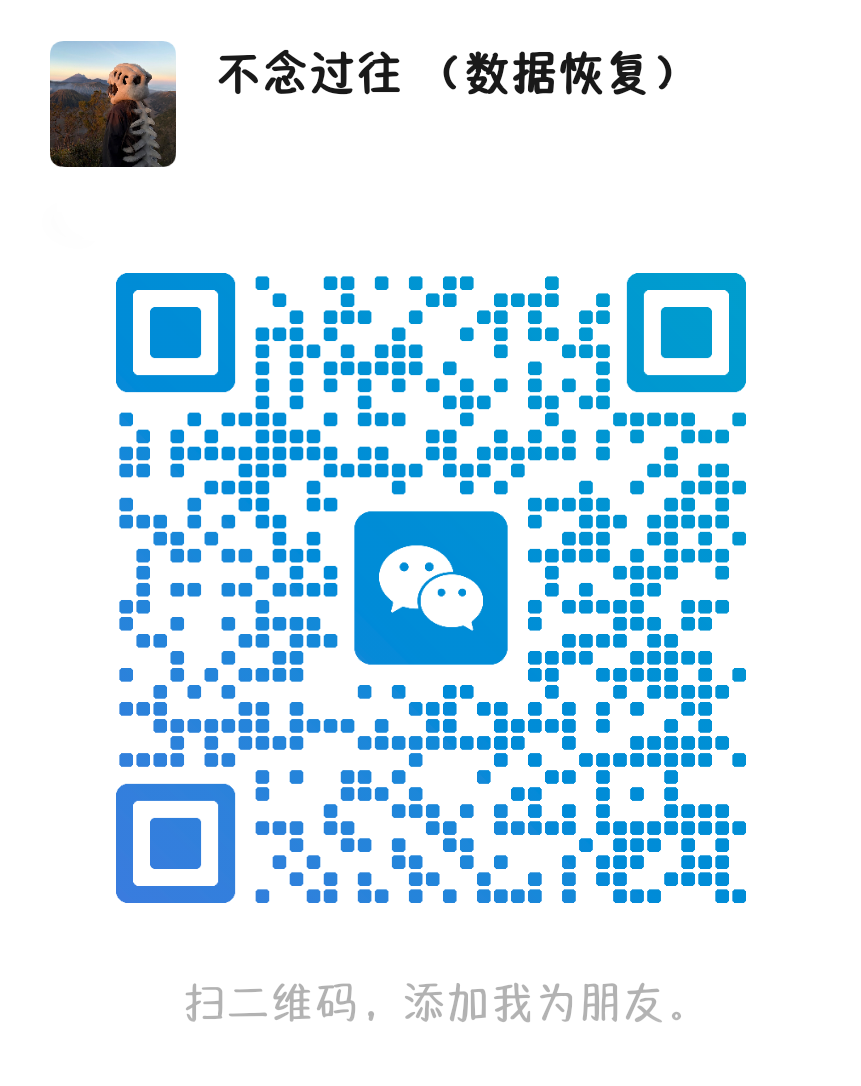
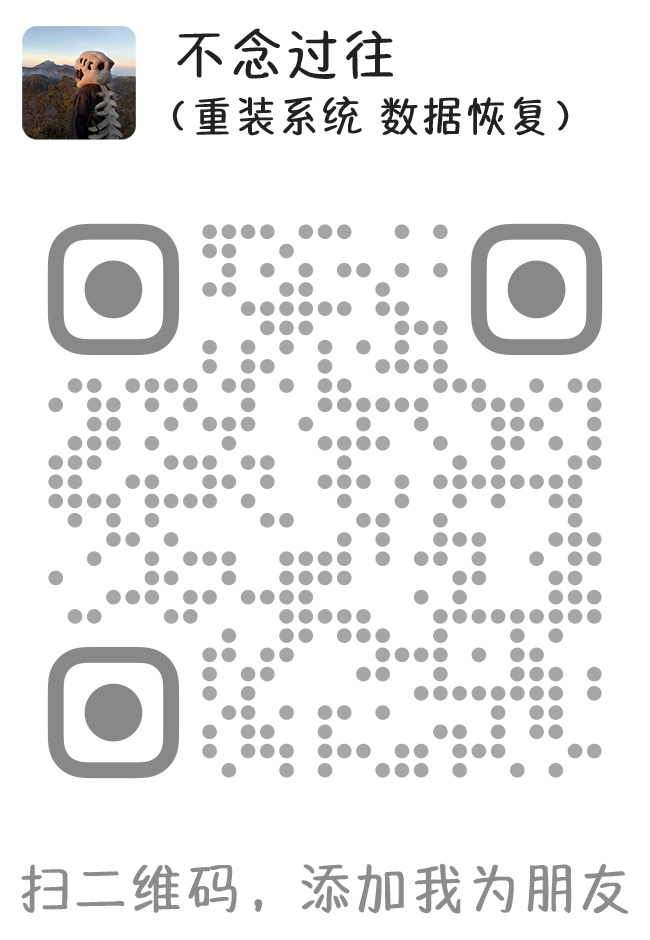
半透明磨砂亚克力

diff --git a/docs/index.md b/docs/index.md
@@ -118,10 +118,10 @@ body {
   height: 320px;
   float: left;
   margin: 0 10px 30px 10px;
-  background-color: rgba(255, 255, 255, 0.32);
-  box-shadow: 2px 4px 4px rgba(0,0,0,0.1);
+  background-color: rgba(255, 255, 255, 0.35);
+  box-shadow: 4px 4px 4px rgba(50,50,50,0.08);
   backdrop-filter: blur(3px);
-  -webkit-backdrop-filter: blur(4px);
+  -webkit-backdrop-filter: blur(3px);
   border-radius: 23px;
   overflow: hidden;
   transition: transform 0.3s ease;
@@ -217,9 +217,11 @@ body {
   right: 24px;
   width: 300px;
   max-width: 90vw;
-  background: #fff;
+  background-color: rgba(255, 255, 255, 0.25);
+  box-shadow: 4px 4px 4px rgba(50,50,50,0.08);
+  backdrop-filter: blur(2px);
+  -webkit-backdrop-filter: blur(2px);
   border-radius: 8px;
-  box-shadow: 3px 4px 15px rgba(0,0,0,0.2);
   overflow: hidden;
   z-index: 9999;
   opacity: 0;
@@ -230,7 +232,7 @@ body {
   pointer-events: auto;
 }
 .notification-header {
-  background: #3b82f6;
+  background: rgba(59, 130, 246, 0.6);
   color: white;
   padding: 8px 8px 6px 16px;
   display: flex;
@@ -290,6 +292,9 @@ body {
   width: calc(((100vw - 1200px) / 2) - 50px);
   min-width: 240px;
   max-width: 390px;
+  background: rgba(255, 255, 255, 0.38);
+  backdrop-filter: blur(4px);
+  -webkit-backdrop-filter: blur(3px);
   transition: transform 1s ease, opacity 1.4s ease;
 }
 /* folded：仅做动画隐藏，业务大屏小屏判断交给JS */
@@ -300,13 +305,12 @@ body {
 }
 .announce-notification {
   width: 100%;
-  background: #fff;
   border-radius: 8px;
   box-shadow: 3px 4px 15px rgba(0,0,0,0.2);
   overflow: hidden;
 }
 .announce-header {
-  background: #3b82f6;
+  background: rgba(59, 130, 246, 0.6);
   color: white;
   padding: 8px 8px 6px 15px;
   display: flex;
@@ -384,7 +388,7 @@ body {
       </div>
     </div>
     <div class="announce-content">
-      <img src="https://img.remit.ee/api/file/BQACAgUAAyEGAASHRsPbAAEaWjZqmARTpCrTTfr9oFn2PwEx5qhmMAACPzAAAm9BwFSztirx24G1Rz0E.png" >
+      <img src="/img/show/QRCode.png" >
       <p>不为碎银几两，唯求服务至诚</p>
     </div>
   </div>
@@ -461,7 +465,7 @@ body {
     <div class="notification-header">
       <div class="notification-title-wrap">
         <span class="notification-title">关于本站</span>
-        <span style="font-size: 14px;color: #60a5fa">Update：{{latestUpdateDate}}</span>
+        <span style="font-size: 14px;color: #C3D6F9;">Update：{{latestUpdateDate}}</span>
       </div>
       <div class="notify-close-wrap" @click="handleAboutCloseClick">
         <svg xmlns="http://www.w3.org/2000/svg" width="18" height="18" viewBox="0 0 24 24">
